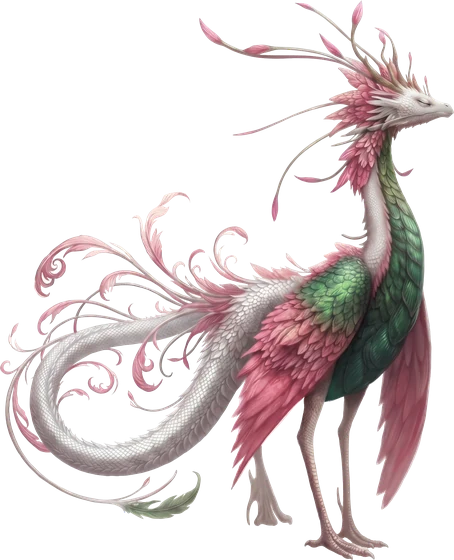
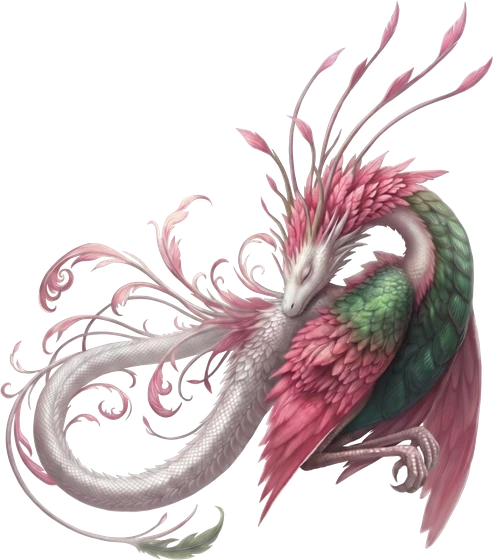
換上新圖：曦淵近照、睡覺的精靈、站著的精靈（去背）；逆生之境、寂滅虛空、無界迴廊、時隙之海；無界迴廊與時隙之海的第二張在月界列車時顯示
Claude-Session: https://claude.ai/code/session_01FC8XpSKwjtKfQrbNM1tLJn

diff --git a/index.html b/index.html
@@ -2297,7 +2297,7 @@ ART.car.cab=function(state){
  const sc={red:'#ff7a7a',amber:'#ffd27a',green:'#7dffb4'}[sig]||'#556';
  let ties=''; for(let i=0;i<8;i++){ const t=Math.pow(i/8,1.5), y=900-520*t, hw=250*(1-t)+4; ties+=`<line x1="${(800-hw).toFixed(1)}" y1="${y.toFixed(1)}" x2="${(800+hw).toFixed(1)}" y2="${y.toFixed(1)}" stroke="#f1d58e" stroke-width="${(3*(1-t)+1).toFixed(1)}" opacity=".5"/>`; }
 
- const view=voy?'':state.currentLocation==='origin'?`<image href="${LOCATIONS.origin.img}" x="0" y="0" width="1600" height="560" preserveAspectRatio="xMidYMin slice"/>`:LOC_IMG[state.currentLocation]?`<image href="${LOC_IMG[state.currentLocation]}" x="0" y="0" width="1600" height="560" preserveAspectRatio="xMidYMid slice"/>`:`<svg x="0" y="0" width="1600" height="560" viewBox="0 0 1600 900" preserveAspectRatio="xMidYMid slice">${LOCATIONS[state.currentLocation].art()}</svg>`;
+ const view=voy?'':state.currentLocation==='origin'?`<image href="${LOCATIONS.origin.img}" x="0" y="0" width="1600" height="560" preserveAspectRatio="xMidYMin slice"/>`:locImg(state.currentLocation)?`<image href="${locImg(state.currentLocation)}" x="0" y="0" width="1600" height="560" preserveAspectRatio="xMidYMid slice"/>`:`<svg x="0" y="0" width="1600" height="560" viewBox="0 0 1600 900" preserveAspectRatio="xMidYMid slice">${LOCATIONS[state.currentLocation].art()}</svg>`;
  return `${voy?`<rect width="1600" height="900" fill="#0a0c22"/><foreignObject class="cabfo" x="55" y="0" width="1516" height="560"><video xmlns="http://www.w3.org/1999/xhtml" class="cabvid" src="${CAB_VID}" autoplay="" muted="" loop="" playsinline="" preload="auto"></video></foreignObject>`:'<rect width="1600" height="900" fill="#ece8f2"/>'}${view}
  <svg x="120" y="70" width="1360" height="520" viewBox="0 0 1600 900" preserveAspectRatio="xMidYMid slice">
   <path d="M500 900 L 790 380 L 810 380 L 1100 900" fill="#c8a85e" opacity=".12"/><path d="M560 900 L 796 380 M1040 900 L 804 380" stroke="#f1d58e" stroke-width="5" opacity=".85"/>${ties}
@@ -3632,7 +3632,10 @@ document.addEventListener('pointerup',oskyUp); document.addEventListener('pointe
 addEventListener('resize',oskyPut);
 /* 各界域的場景插畫：下車探索的畫面、回憶水晶、星圖 */
 const LOC_IMG={dawnForest:'assets/loc-dawnForest.jpg',starIslands:'assets/loc-starIslands.jpg',reverseRealm:'assets/loc-reverseRealm.jpg',boundlessCorridor:'assets/loc-boundlessCorridor.jpg',silentVoid:'assets/loc-silentVoid.jpg',timeriftSea:'assets/loc-timeriftSea.jpg'};
-function renderOutside(){ const L=LOCATIONS[state.currentLocation], im=LOC_IMG[state.currentLocation]; return (im?`<img class="bg" src="${im}" alt="${L.name}">`:svgScene(L.art()))+dust(20)+'<div class="vignette"></div>'+hsRender('out:'+state.currentLocation); }
+/* 第二張景：月界列車（V 切到月）時，駕駛室窗外與下車看到的是這一張 */
+const LOC_IMG2={boundlessCorridor:'assets/loc-boundlessCorridor-2.jpg',timeriftSea:'assets/loc-timeriftSea-2.jpg'};
+const locImg=id=>(state&&state.trainMoon&&LOC_IMG2[id])||LOC_IMG[id];
+function renderOutside(){ const L=LOCATIONS[state.currentLocation], im=locImg(state.currentLocation); return (im?`<img class="bg" src="${im}" alt="${L.name}">`:svgScene(L.art()))+dust(20)+'<div class="vignette"></div>'+hsRender('out:'+state.currentLocation); }
 
 function renderHUD(){
  const L=LOCATIONS[state.currentLocation], ph=state.currentPhase, v=state.voyage;

diff --git a/tools/src.html b/tools/src.html
@@ -2291,7 +2291,7 @@ ART.car.cab=function(state){
  const sc={red:'#ff7a7a',amber:'#ffd27a',green:'#7dffb4'}[sig]||'#556';
  let ties=''; for(let i=0;i<8;i++){ const t=Math.pow(i/8,1.5), y=900-520*t, hw=250*(1-t)+4; ties+=`<line x1="${(800-hw).toFixed(1)}" y1="${y.toFixed(1)}" x2="${(800+hw).toFixed(1)}" y2="${y.toFixed(1)}" stroke="#f1d58e" stroke-width="${(3*(1-t)+1).toFixed(1)}" opacity=".5"/>`; }
 
- const view=voy?'':state.currentLocation==='origin'?`<image href="${LOCATIONS.origin.img}" x="0" y="0" width="1600" height="560" preserveAspectRatio="xMidYMin slice"/>`:LOC_IMG[state.currentLocation]?`<image href="${LOC_IMG[state.currentLocation]}" x="0" y="0" width="1600" height="560" preserveAspectRatio="xMidYMid slice"/>`:`<svg x="0" y="0" width="1600" height="560" viewBox="0 0 1600 900" preserveAspectRatio="xMidYMid slice">${LOCATIONS[state.currentLocation].art()}</svg>`;
+ const view=voy?'':state.currentLocation==='origin'?`<image href="${LOCATIONS.origin.img}" x="0" y="0" width="1600" height="560" preserveAspectRatio="xMidYMin slice"/>`:locImg(state.currentLocation)?`<image href="${locImg(state.currentLocation)}" x="0" y="0" width="1600" height="560" preserveAspectRatio="xMidYMid slice"/>`:`<svg x="0" y="0" width="1600" height="560" viewBox="0 0 1600 900" preserveAspectRatio="xMidYMid slice">${LOCATIONS[state.currentLocation].art()}</svg>`;
  return `${voy?`<rect width="1600" height="900" fill="#0a0c22"/><foreignObject class="cabfo" x="55" y="0" width="1516" height="560"><video xmlns="http://www.w3.org/1999/xhtml" class="cabvid" src="${CAB_VID}" autoplay="" muted="" loop="" playsinline="" preload="auto"></video></foreignObject>`:'<rect width="1600" height="900" fill="#ece8f2"/>'}${view}
  <svg x="120" y="70" width="1360" height="520" viewBox="0 0 1600 900" preserveAspectRatio="xMidYMid slice">
   <path d="M500 900 L 790 380 L 810 380 L 1100 900" fill="#c8a85e" opacity=".12"/><path d="M560 900 L 796 380 M1040 900 L 804 380" stroke="#f1d58e" stroke-width="5" opacity=".85"/>${ties}
@@ -3626,7 +3626,10 @@ document.addEventListener('pointerup',oskyUp); document.addEventListener('pointe
 addEventListener('resize',oskyPut);
 /* 各界域的場景插畫：下車探索的畫面、回憶水晶、星圖 */
 const LOC_IMG={dawnForest:'loc-dawnForest.jpg',starIslands:'loc-starIslands.jpg',reverseRealm:'loc-reverseRealm.jpg',boundlessCorridor:'loc-boundlessCorridor.jpg',silentVoid:'loc-silentVoid.jpg',timeriftSea:'loc-timeriftSea.jpg'};
-function renderOutside(){ const L=LOCATIONS[state.currentLocation], im=LOC_IMG[state.currentLocation]; return (im?`<img class="bg" src="${im}" alt="${L.name}">`:svgScene(L.art()))+dust(20)+'<div class="vignette"></div>'+hsRender('out:'+state.currentLocation); }
+/* 第二張景：月界列車（V 切到月）時，駕駛室窗外與下車看到的是這一張 */
+const LOC_IMG2={boundlessCorridor:'loc-boundlessCorridor-2.jpg',timeriftSea:'loc-timeriftSea-2.jpg'};
+const locImg=id=>(state&&state.trainMoon&&LOC_IMG2[id])||LOC_IMG[id];
+function renderOutside(){ const L=LOCATIONS[state.currentLocation], im=locImg(state.currentLocation); return (im?`<img class="bg" src="${im}" alt="${L.name}">`:svgScene(L.art()))+dust(20)+'<div class="vignette"></div>'+hsRender('out:'+state.currentLocation); }
 
 function renderHUD(){
  const L=LOCATIONS[state.currentLocation], ph=state.currentPhase, v=state.voyage;
